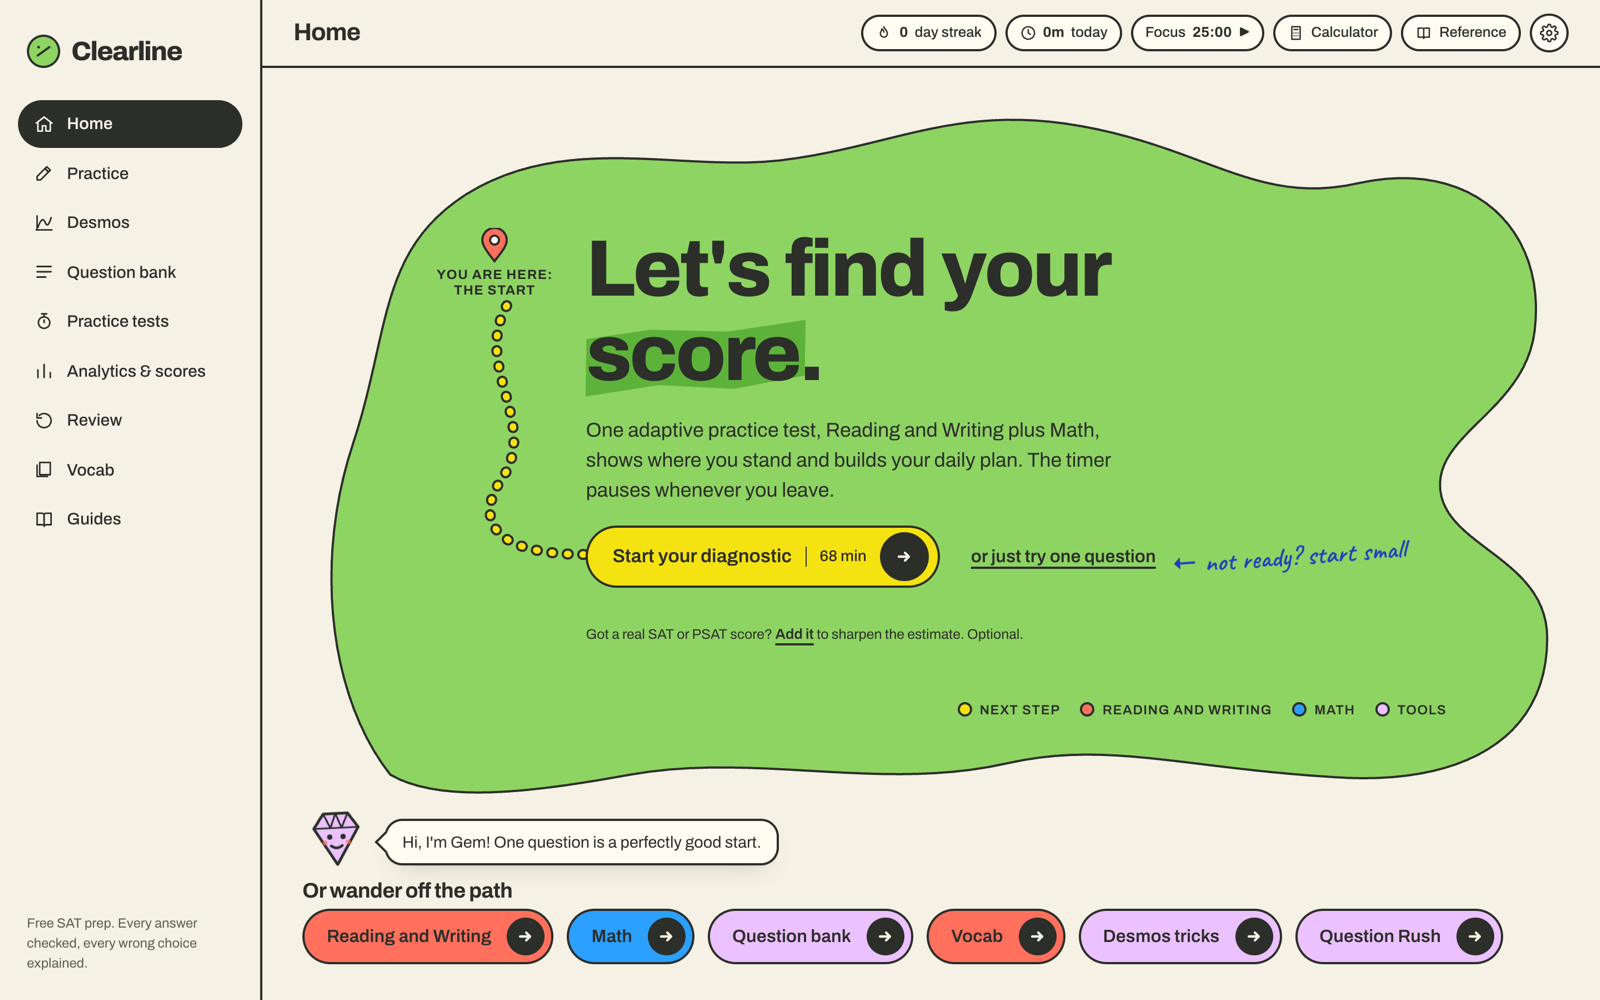
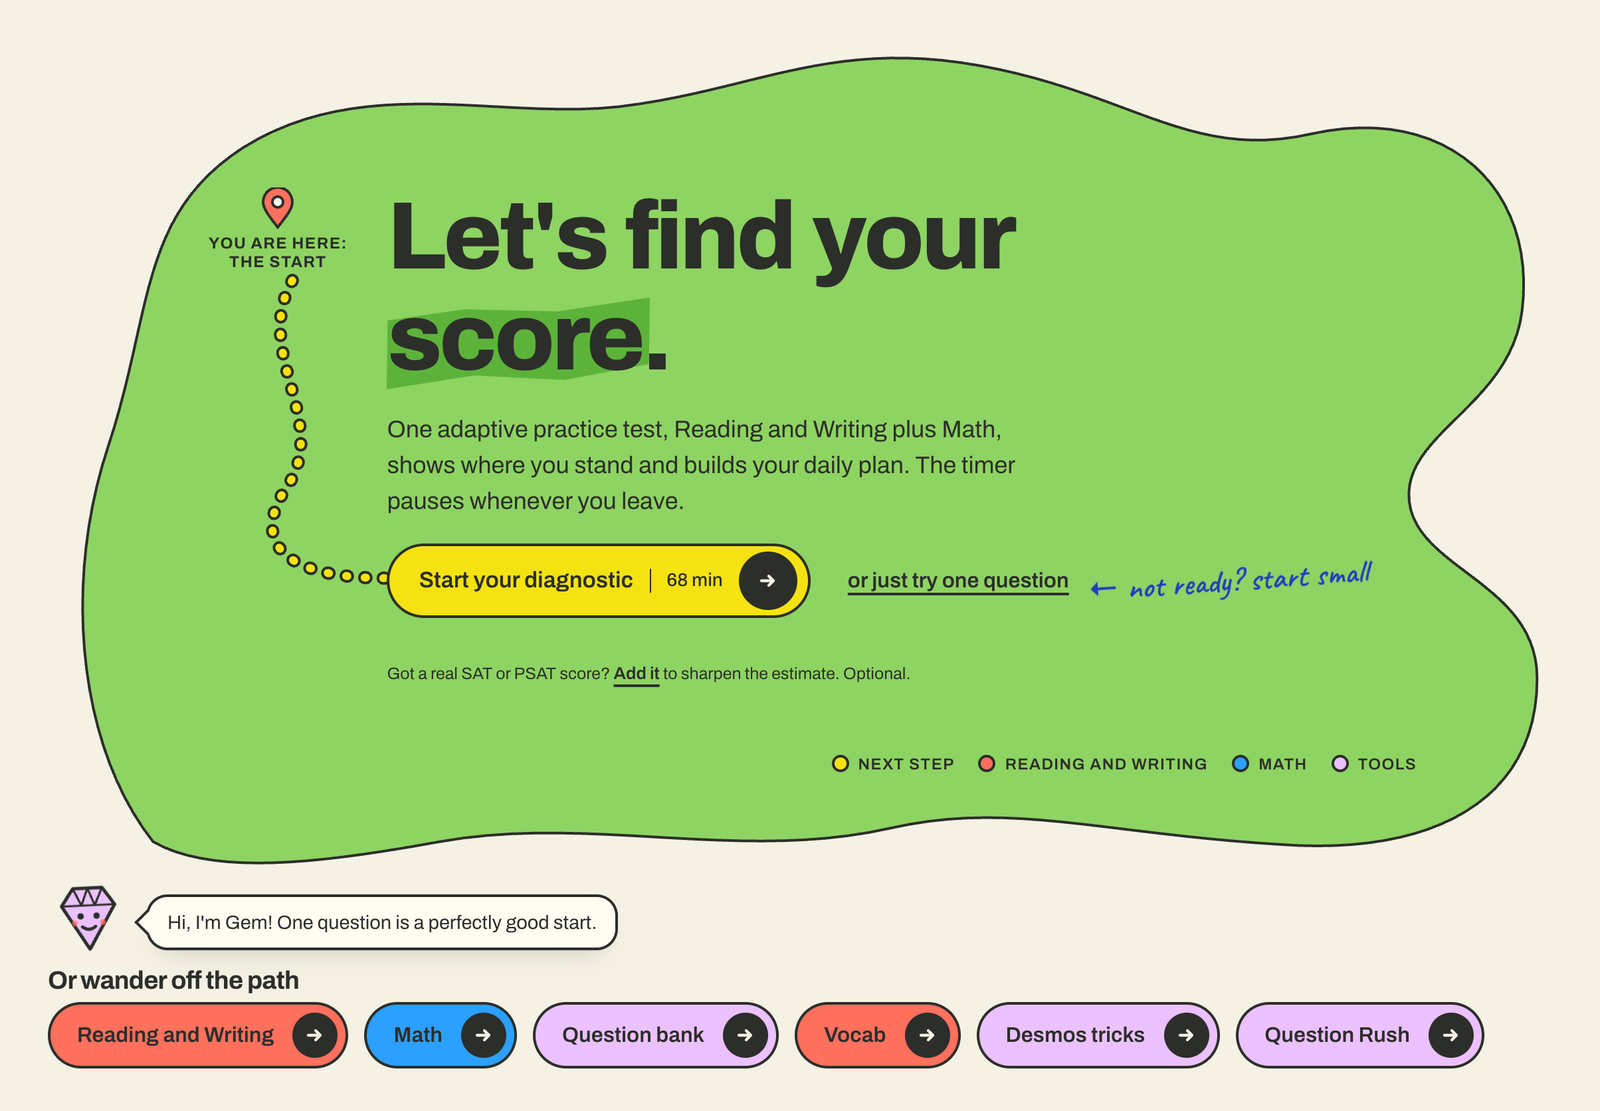
README: answer-and-explanation GIF, two larger screenshots, Match game in Vocab
Claude-Session: https://claude.ai/code/session_01C35oEPEEQMGqzWiVRbNrp3

diff --git a/README.md b/README.md
@@ -6,13 +6,16 @@
 
 No account, no paywall, no ads. Open the link and start practicing.
 
-| Desktop, light | Desktop, dark |
-| --- | --- |
-| ![Clearline home page on a laptop in light mode](docs/screenshots/desktop-light-home.png) | ![A math practice question on a laptop in dark mode](docs/screenshots/desktop-dark-practice.png) |
+<p align="center">
+  <img src="docs/screenshots/answer-and-explanation.gif" alt="A student picks a wrong answer, sees why it's wrong, and reads the step-by-step walkthrough" width="800">
+</p>
 
-| Phone, light | Phone, dark |
-| --- | --- |
-| <img src="docs/screenshots/phone-light-home.png" alt="Clearline home page on a phone in light mode" width="300"> | <img src="docs/screenshots/phone-dark-practice.png" alt="A practice question on a phone in dark mode" width="300"> |
+![Clearline home page on a laptop in light mode](docs/screenshots/desktop-light-home.png)
+
+<p align="center">
+  <img src="docs/screenshots/phone-dark-practice.png" alt="A Reading and Writing practice question on a phone in dark mode" width="360">
+  <br><em>On a laptop in light mode, and on a phone in dark mode.</em>
+</p>
 
 ## Features
 
@@ -40,7 +43,8 @@ No account, no paywall, no ads. Open the link and start practicing.
 - A timed round of 10, 20 or 30 questions at a relaxed, normal or fast pace. Right answers in a row build a combo, fast ones earn a star, and explanations wait until the end.
 
 ### Vocab
-- Flashcards and a Learn mode for Words in Context, with original definitions and example sentences.
+- Three ways to study the same deck for Words in Context: spaced-repetition **Flashcards**, a timed **Match** game (pair 6 words with 6 definitions and beat your best time), and **Learn** mode (pick the word that fits the sentence).
+- Original definitions and example sentences.
 
 ### Mistakes notebook
 - Review every missed question, tag why you missed it, write notes, and group questions into collections. Miss-pattern bars show what keeps tripping you up.
